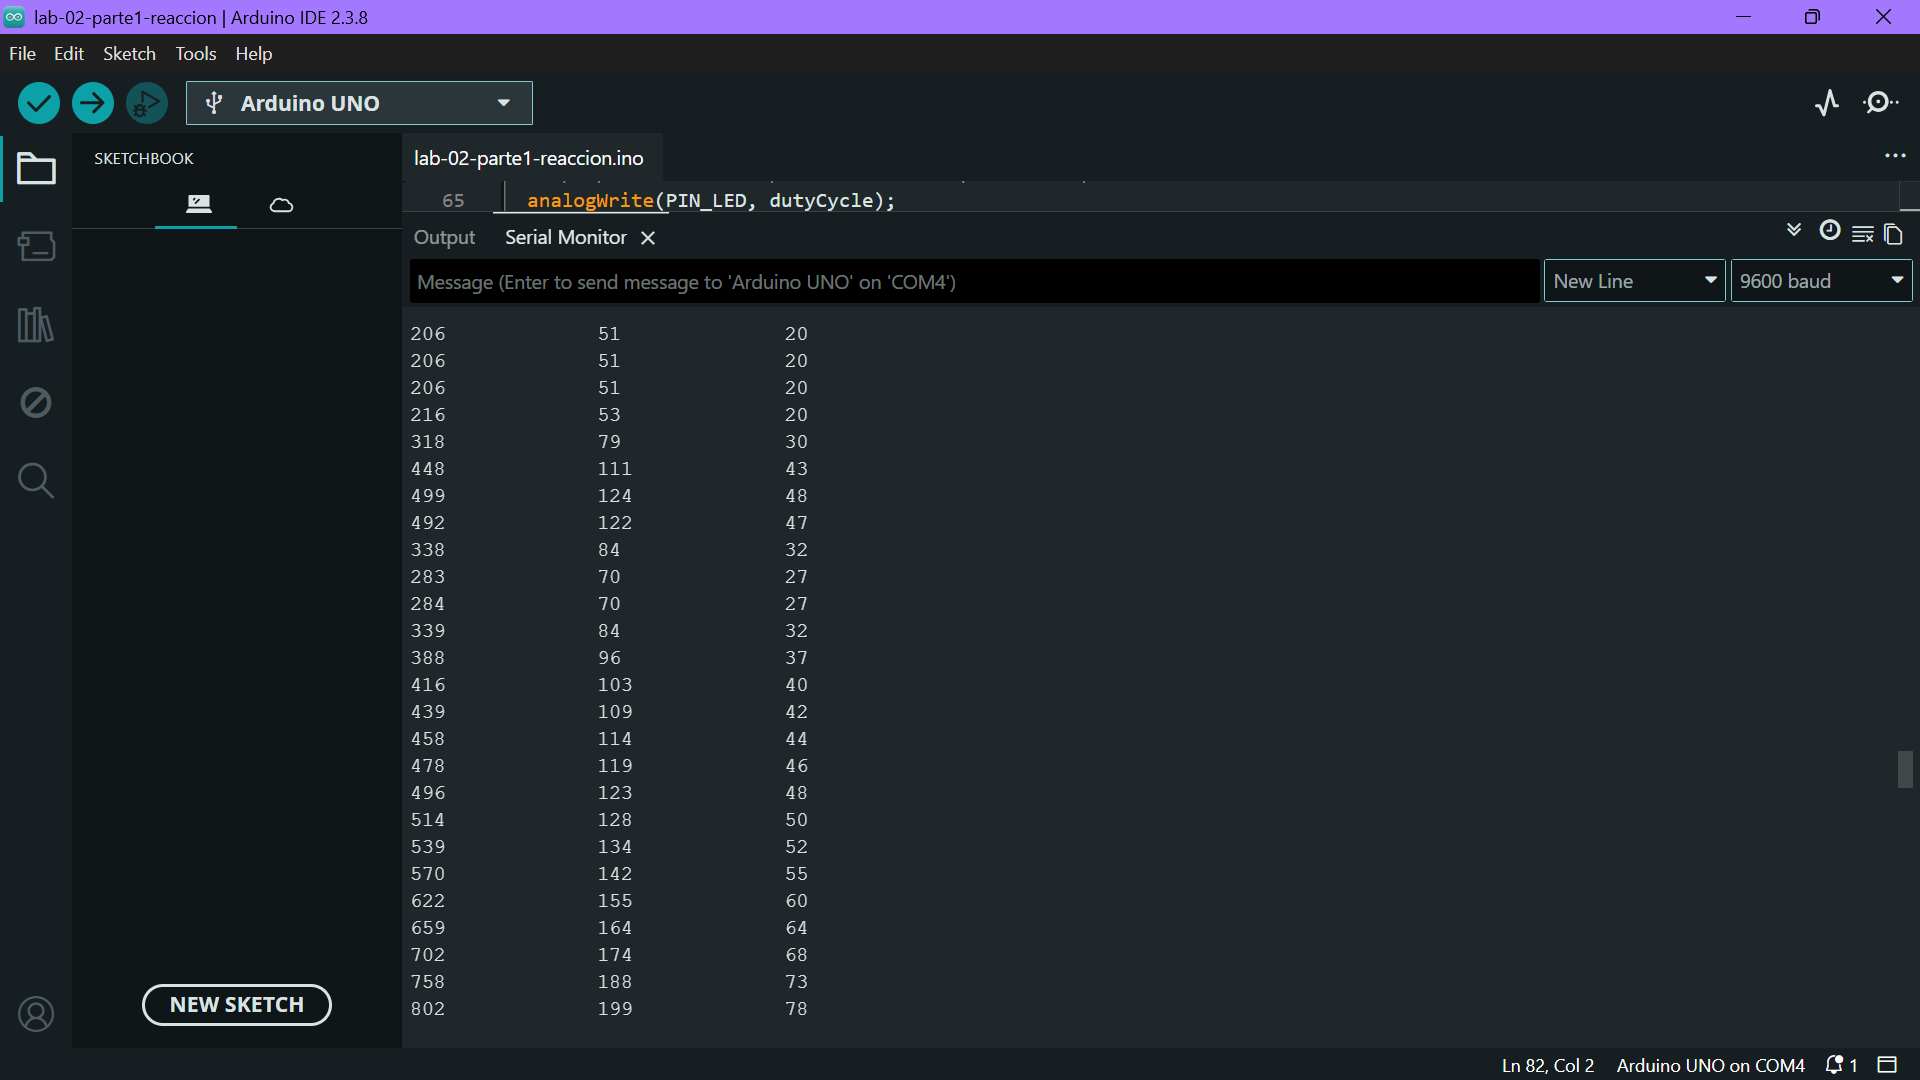
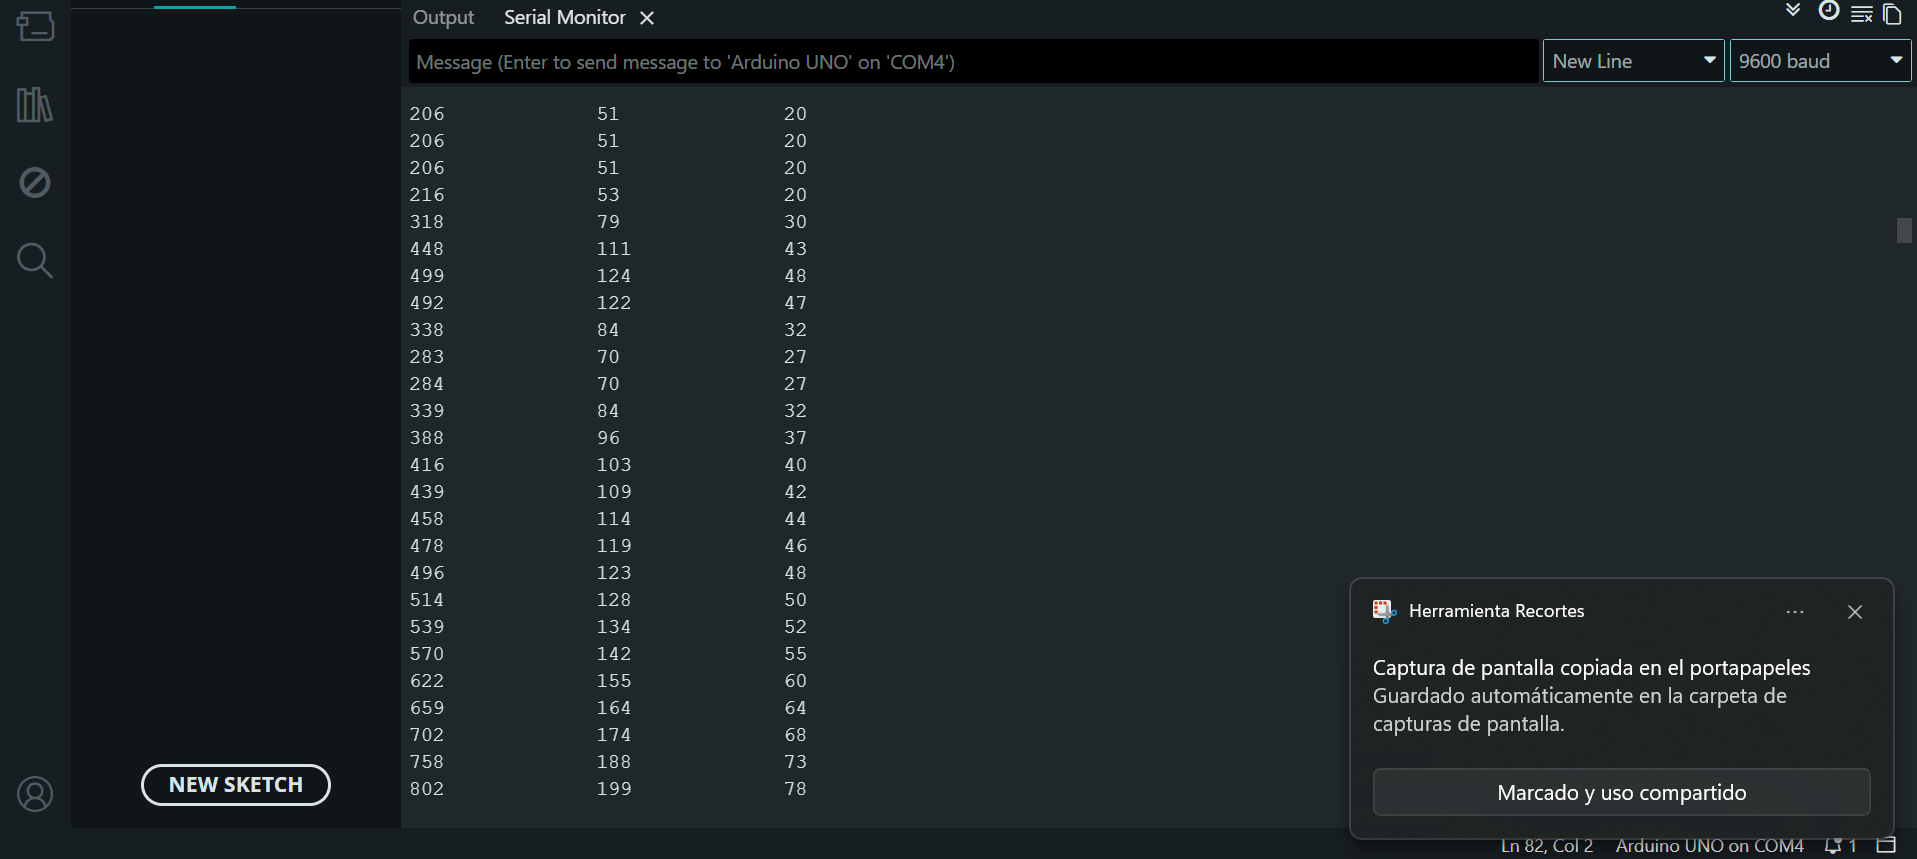
ss nueva

diff --git a/informe 4/template-informe-S04 (2).md b/informe 4/template-informe-S04 (2).md
@@ -32,9 +32,8 @@ Adjuntar captura de pantalla del Serial Monitor mostrando **al menos 10 filas** 
 
 **Caption obligatorio:** Indicar el valor de duty cycle al 0 %, al ~50 % y al 100 %.
 
-```
-[Insertar Figura 1 aquí]
-```
+
+![Figura 1 — Serial Monitor (Actividad 1)](actividad1.png)
 
 > **Descripción:** _(Describir brevemente qué muestra la captura y confirmar la relación lineal entre ADC y duty cycle observada.)_
 
